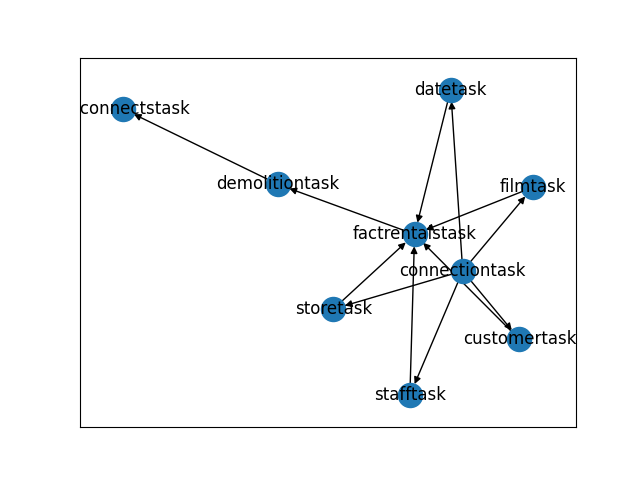
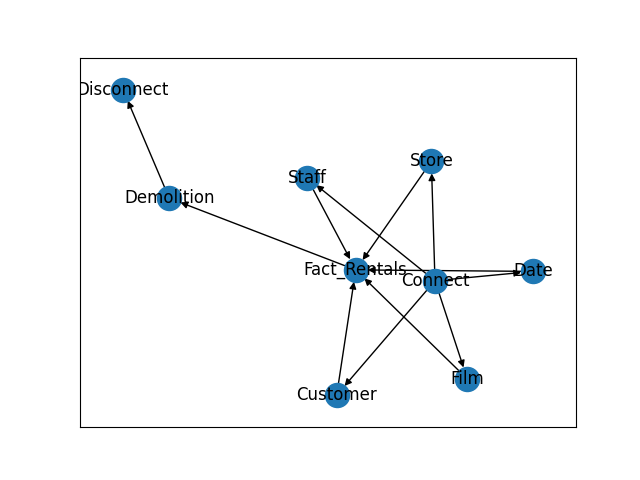
msg

diff --git a/Emilio/dags/myfirstdag.py b/Emilio/dags/myfirstdag.py
@@ -4,7 +4,7 @@ from matplotlib import pyplot as plt
 
 #creating dependencies   
 graph = nx.DiGraph()
-graph.add_edges_from([("connectiontask", "storetask"),("connectiontask", "filmtask"), ("connectiontask", "customertask"), ("connectiontask", "datetask"), ("connectiontask", "stafftask"), ("stafftask", "factrentalstask"),("datetask", "factrentalstask"), ("storetask", "factrentalstask"),("customertask", "factrentalstask"),("filmtask", "factrentalstask"),("stafftask", "factrentalstask"),("storetask", "factrentalstask"),("factrentalstask","demolitiontask"),("demolitiontask", "disconnectstask")])
+graph.add_edges_from([("Connect", "Store"),("Connect", "Film"), ("Connect", "Customer"), ("Connect", "Date"), ("Connect", "Staff"), ("Staff", "Fact_Rentals"),("Date", "Fact_Rentals"), ("Store", "Fact_Rentals"),("Customer", "Fact_Rentals"),("Film", "Fact_Rentals"),("Staff", "Fact_Rentals"),("Store", "Fact_Rentals"),("Fact_Rentals","Demolition"),("Demolition", "Disconnect")])
 
 #creating a graphical representation of my dependencies 
 plt.figure()
